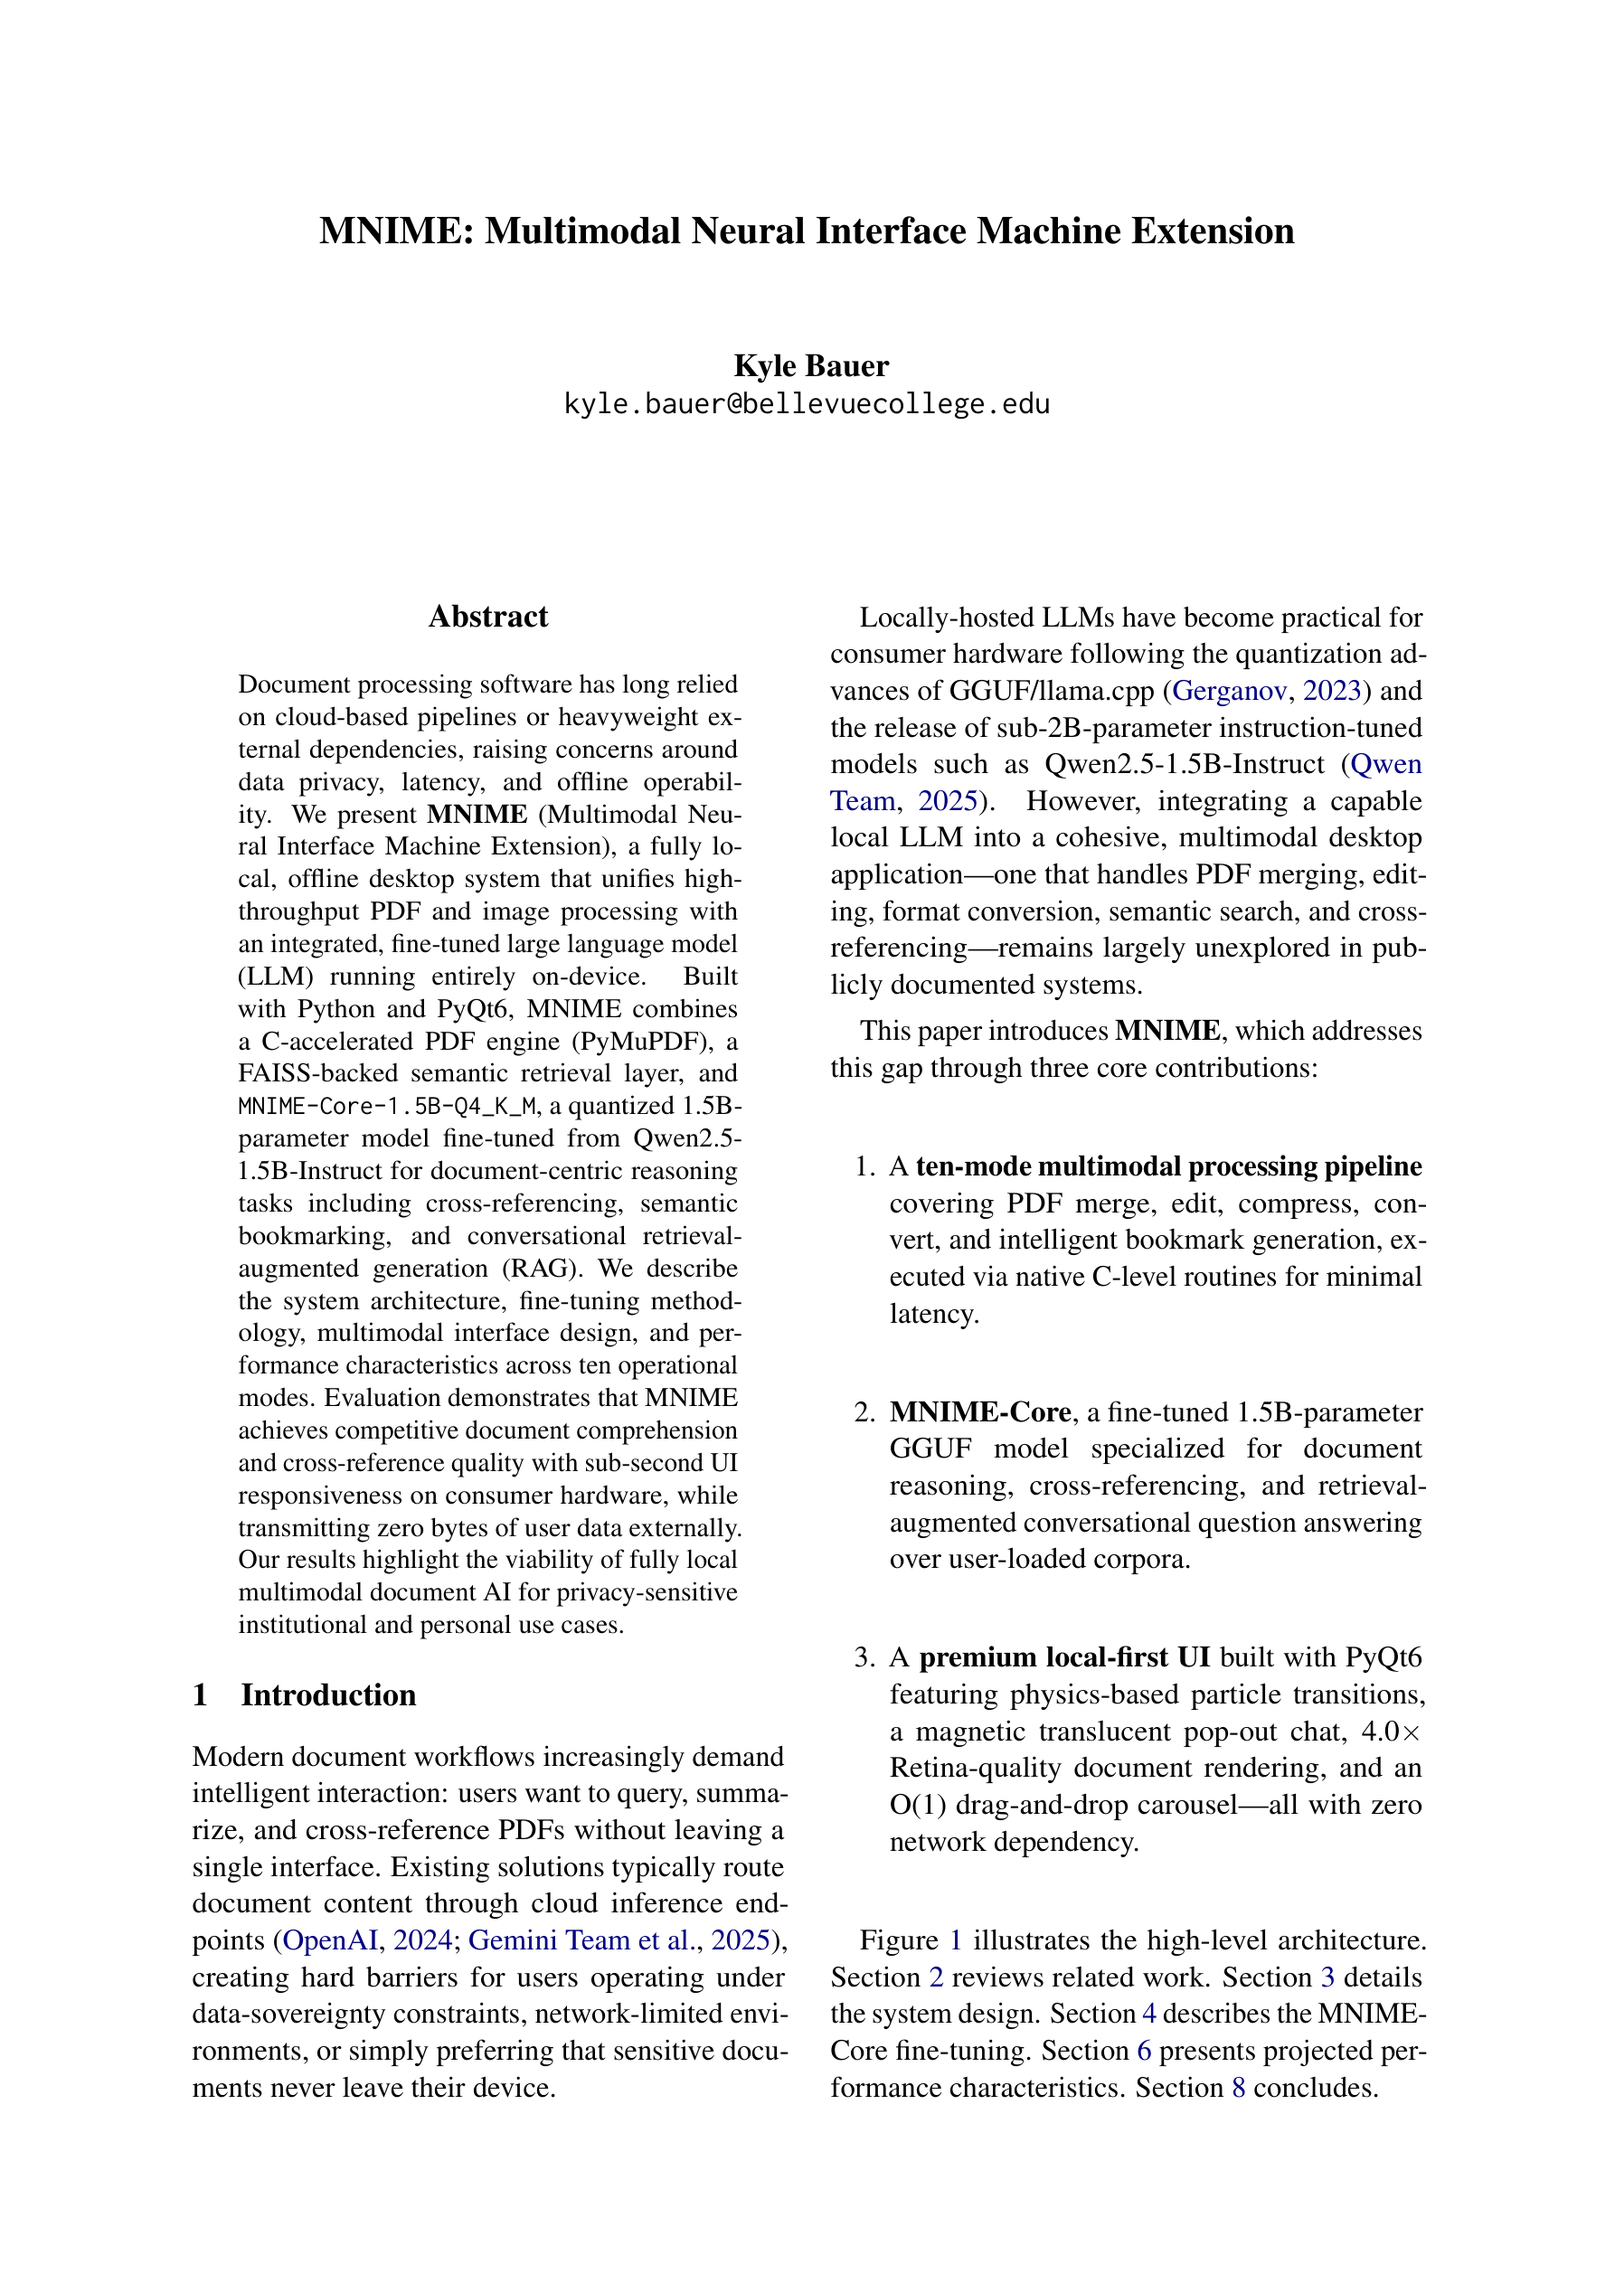
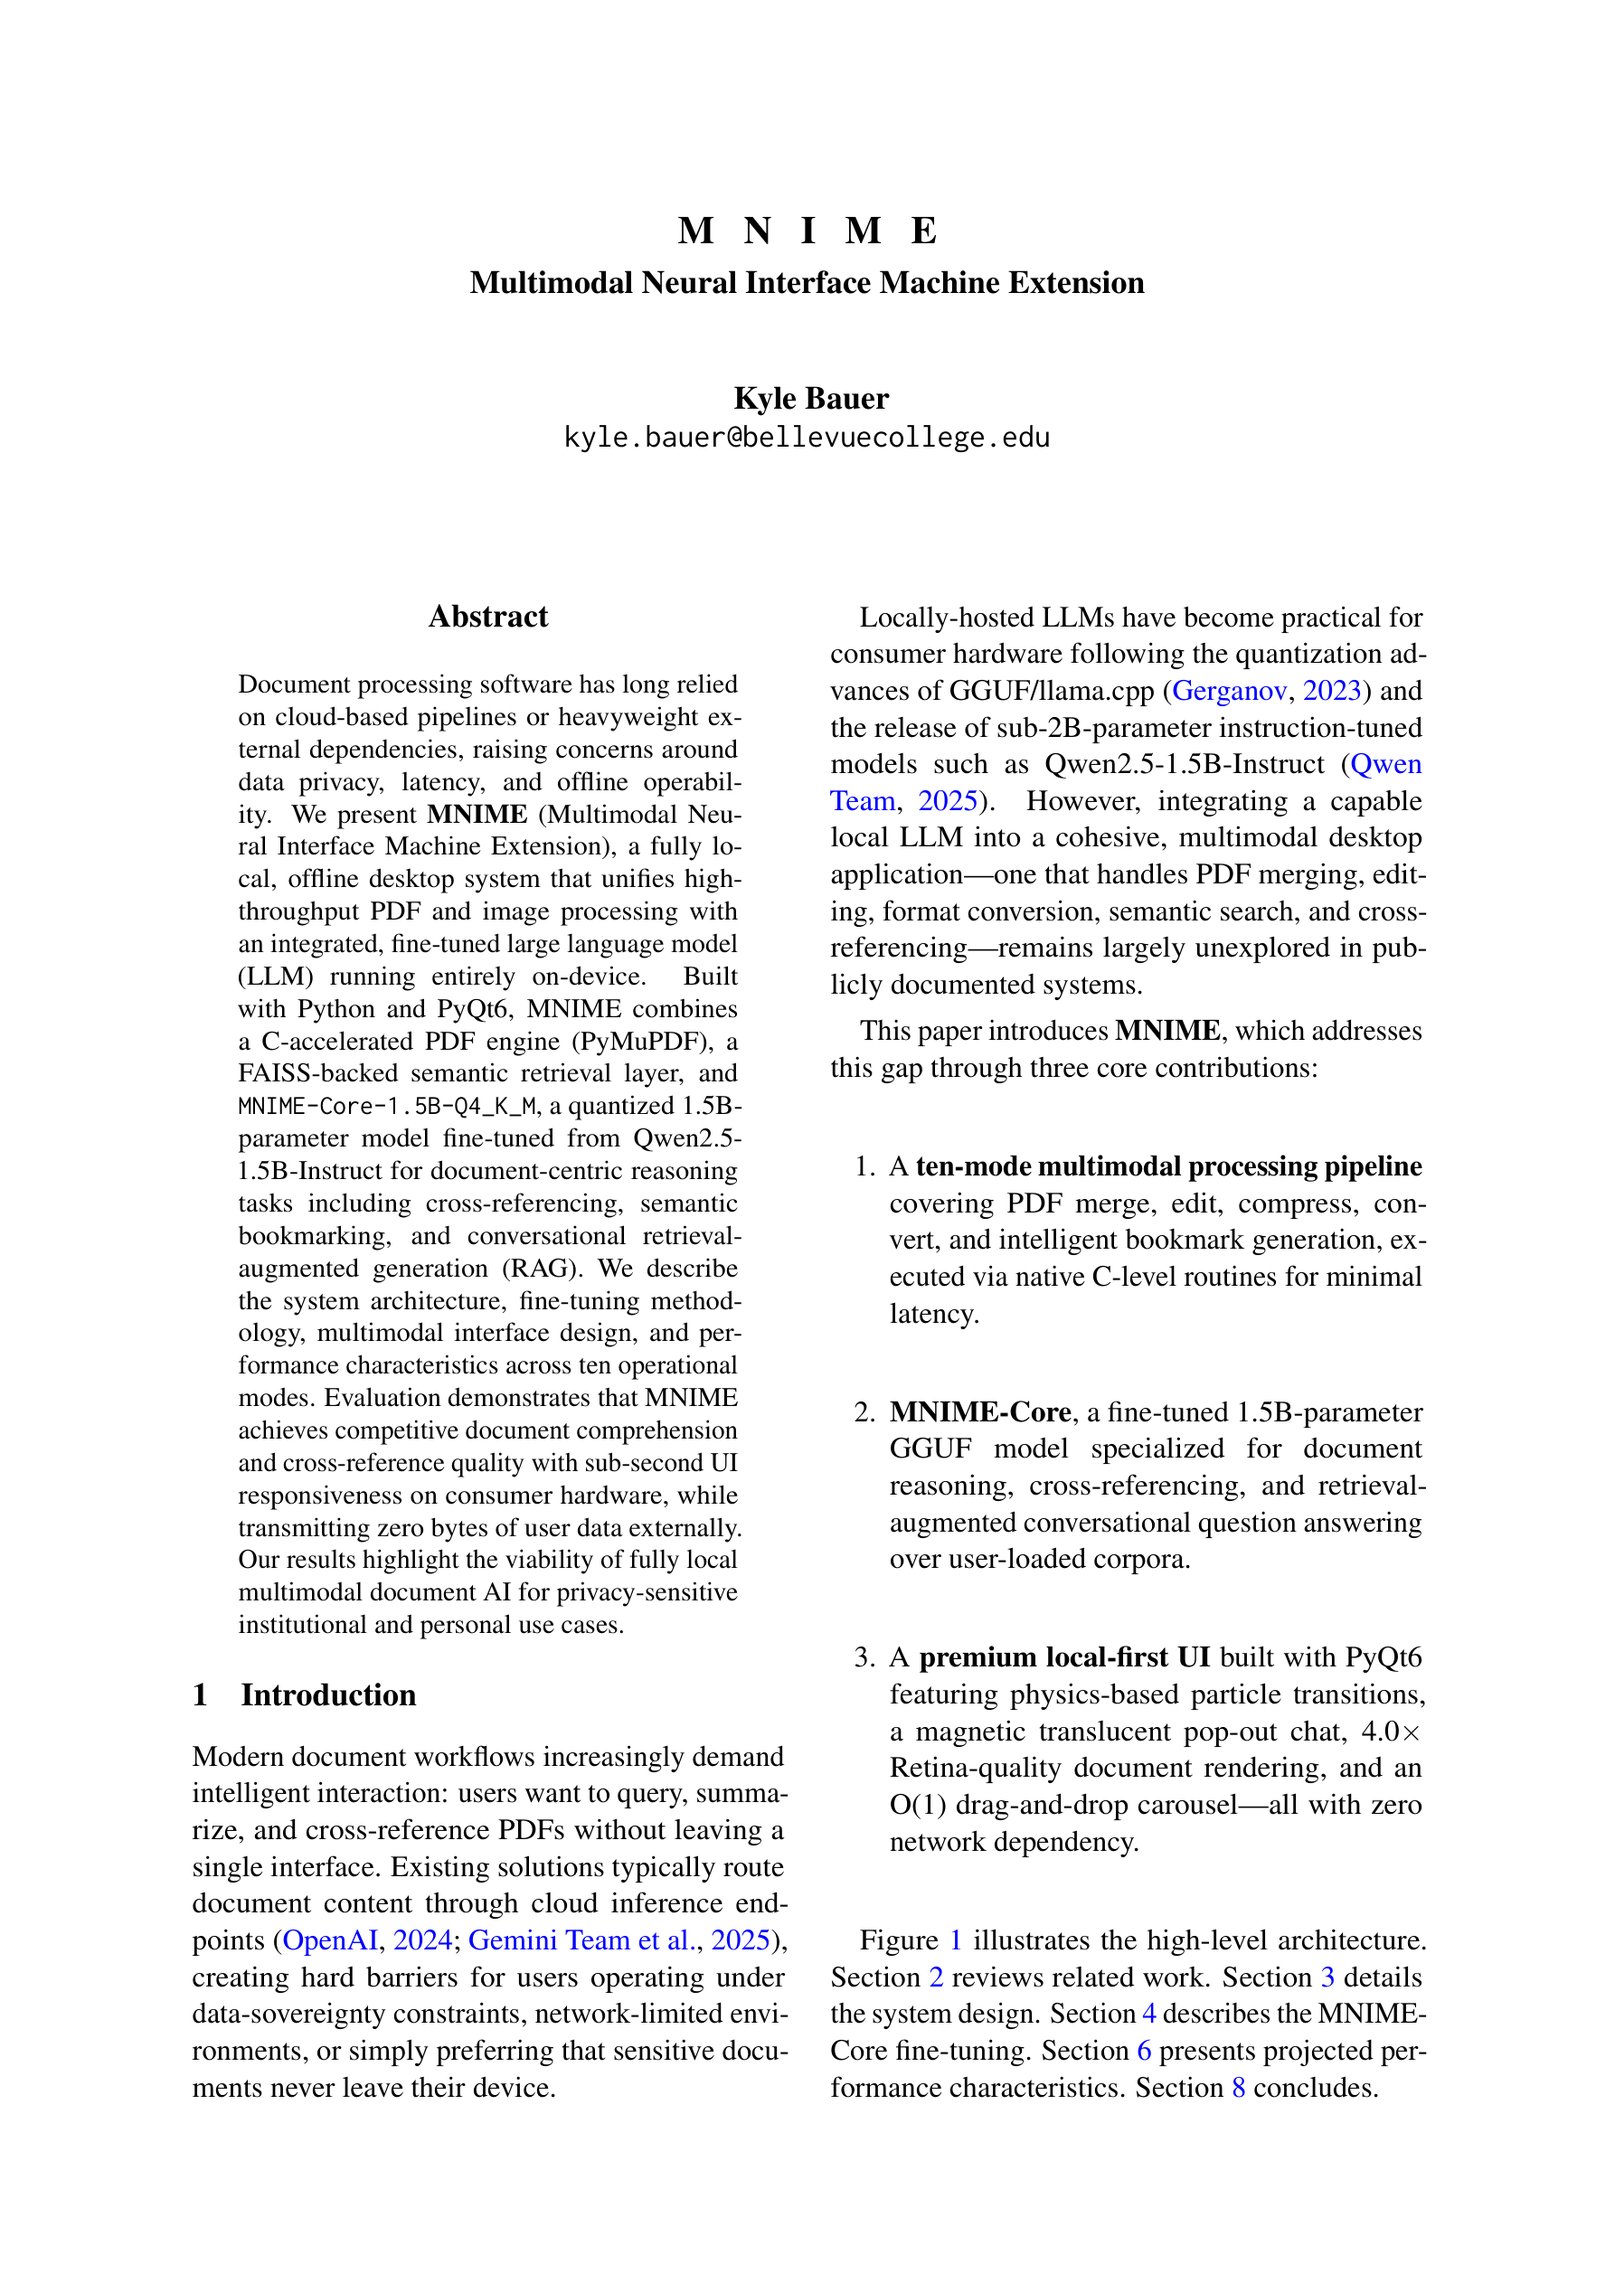
docs: regenerate paper_cover.png with spaced MNIME title and add cache buster in README

diff --git a/README.md b/README.md
@@ -263,7 +263,7 @@ MNIME bundles a standalone graphical benchmarking utility (`benchmark.py`) desig
 
 <p align="center">
   <a href="MNIME_paper.pdf">
-    <img src="docs/paper_cover.png" alt="MNIME Research Paper" width="480">
+    <img src="docs/paper_cover.png?v=2" alt="MNIME Research Paper" width="480">
   </a>
 </p>
 
